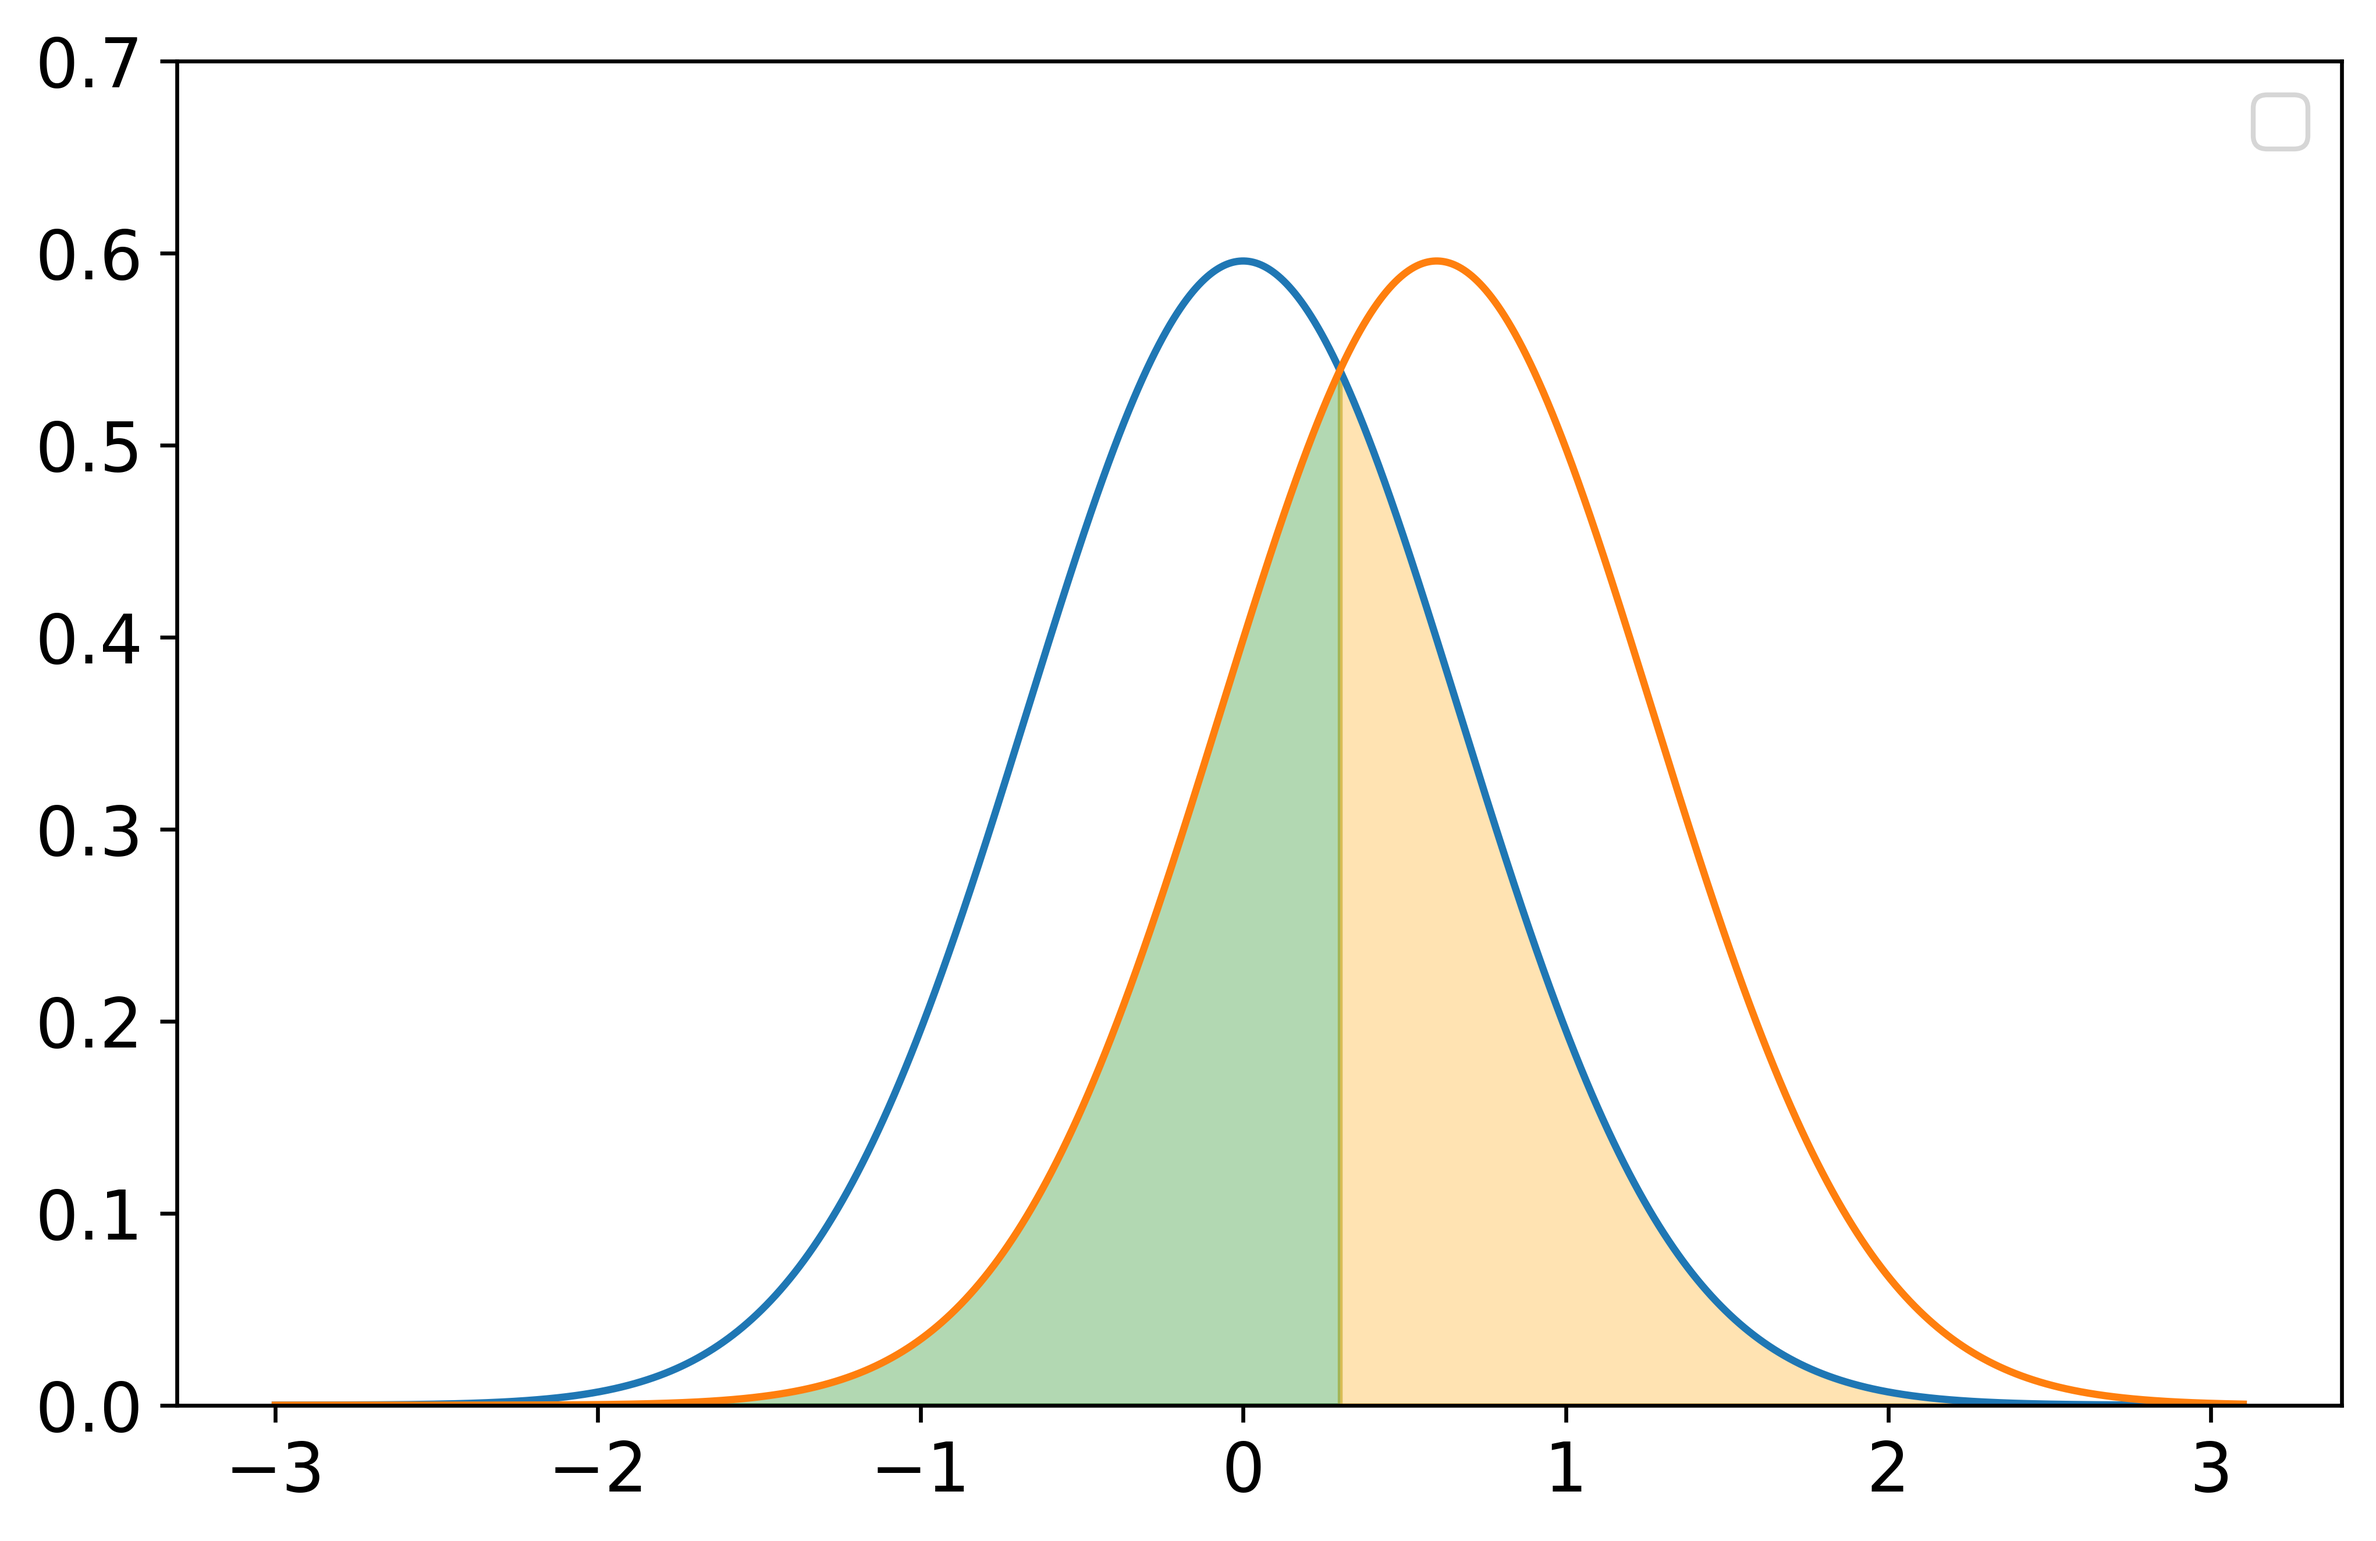
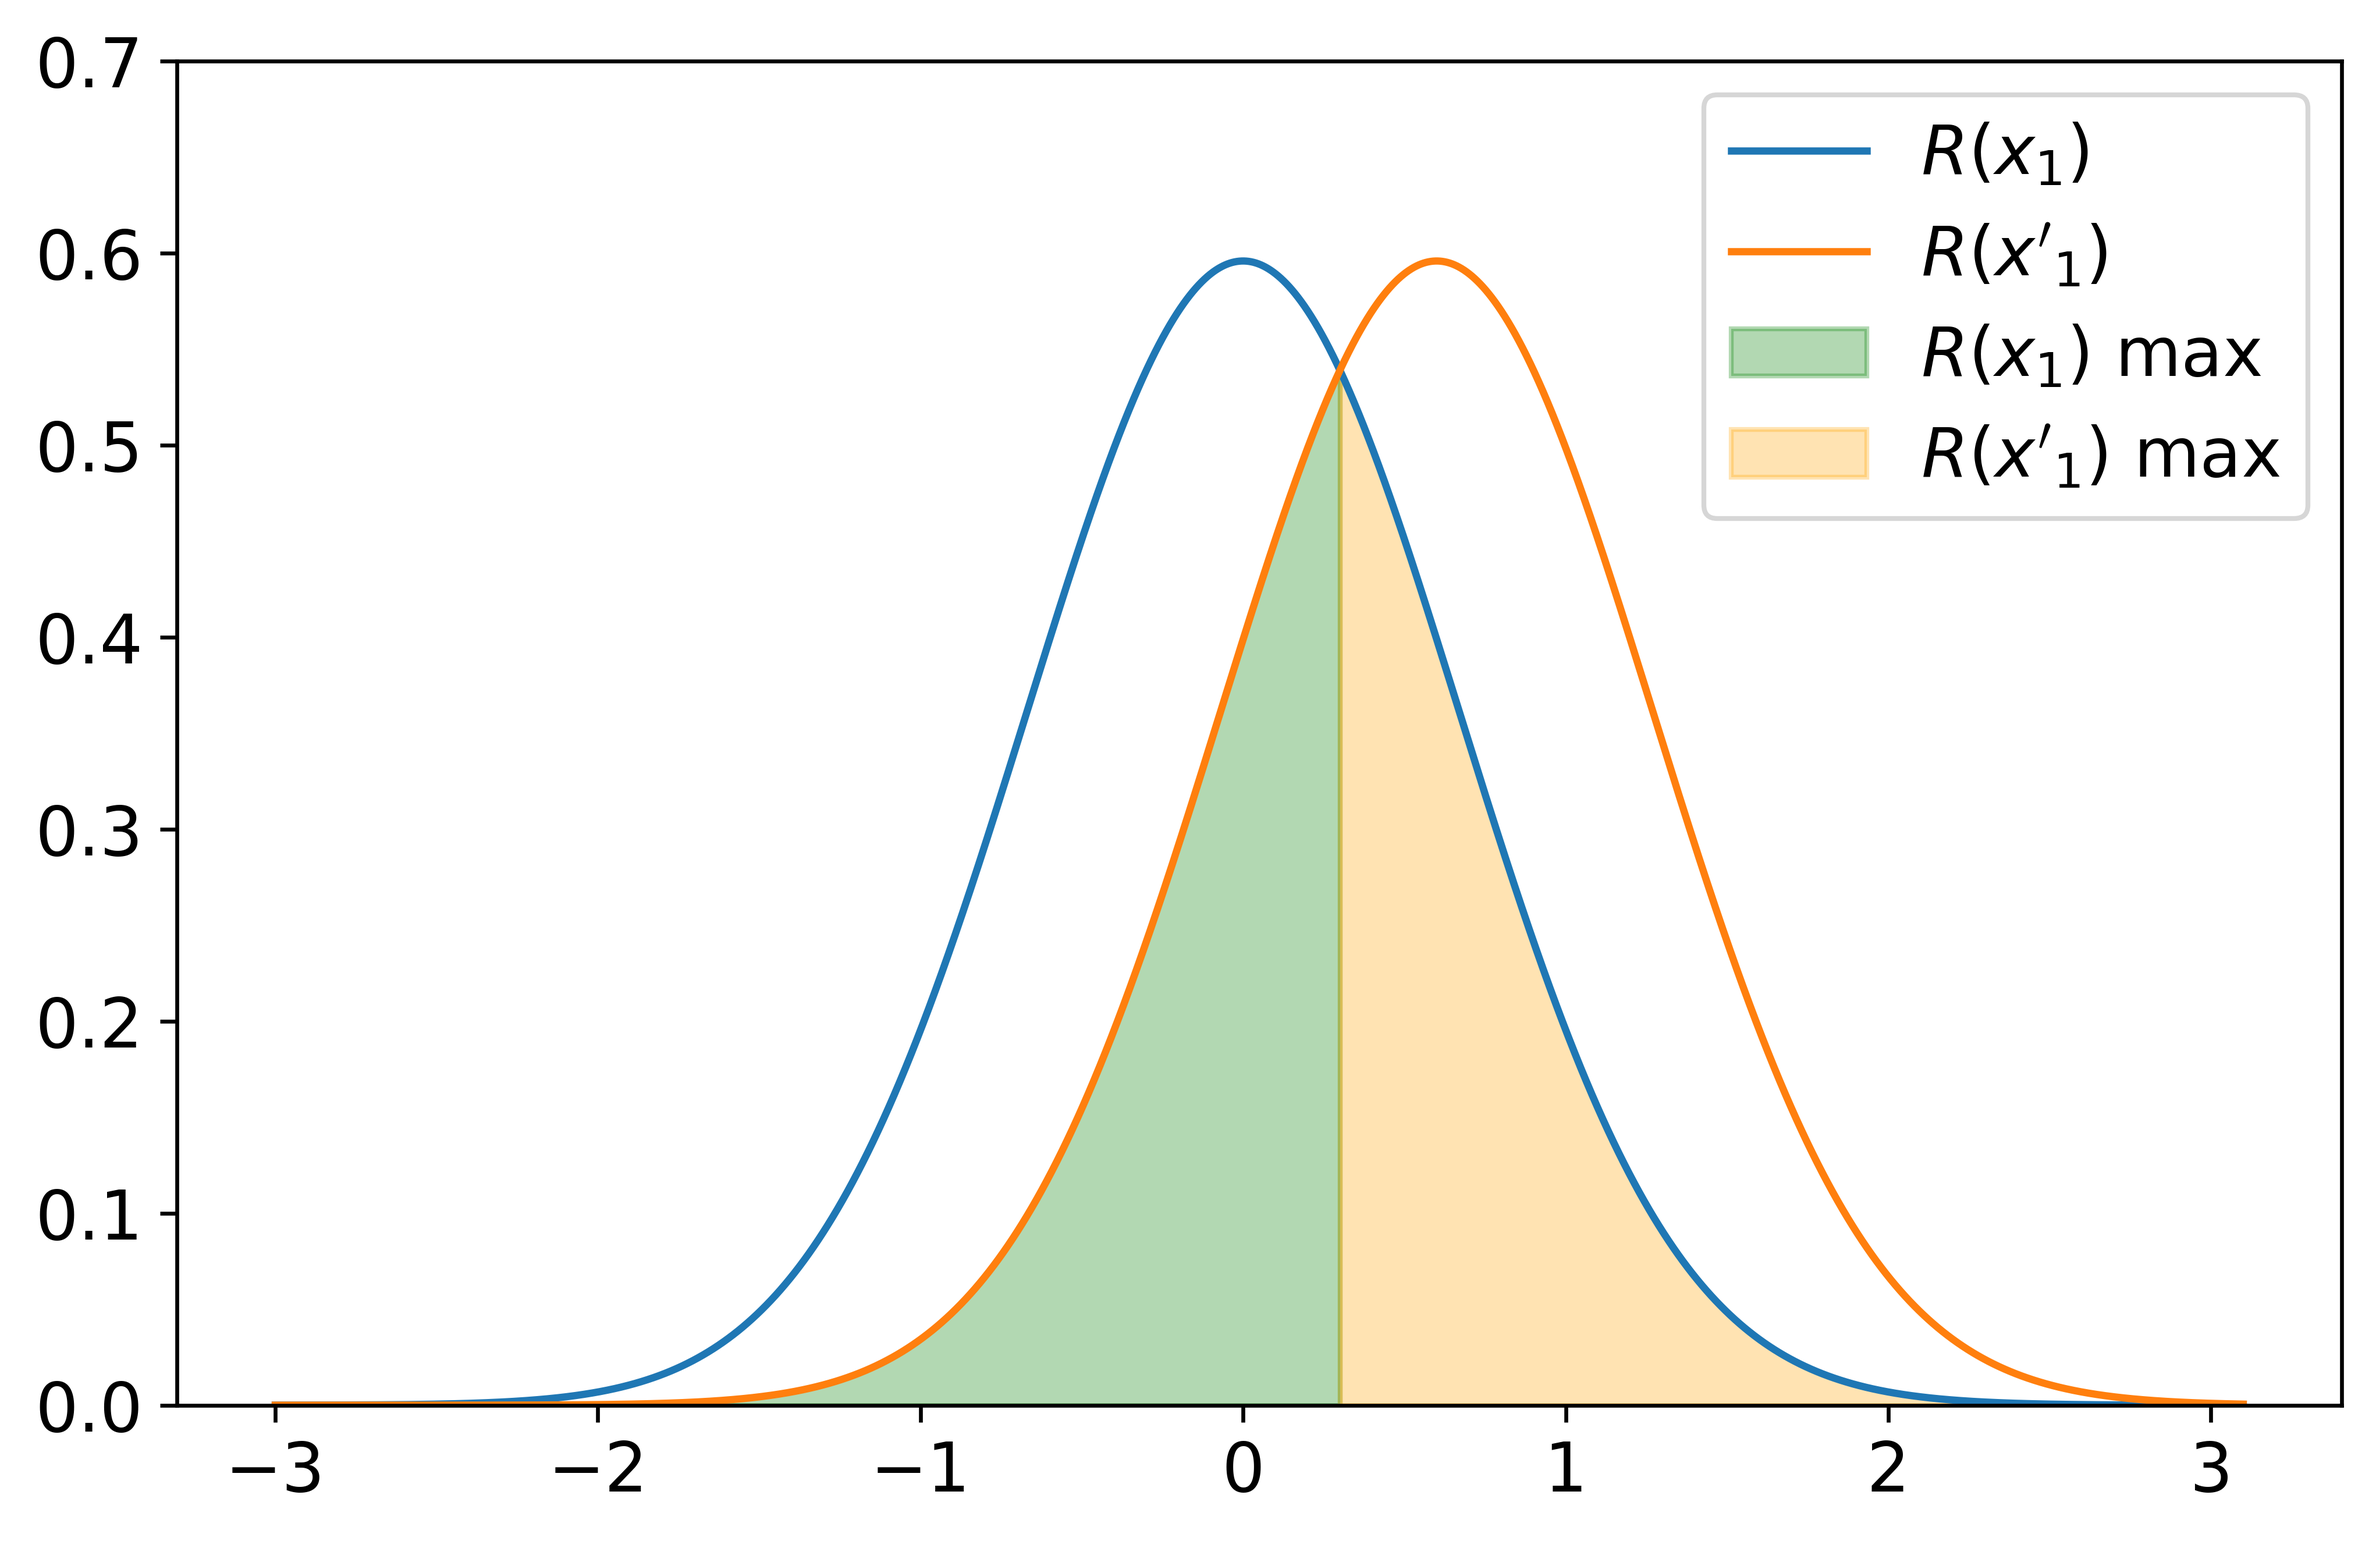
dist

diff --git a/dist.py b/dist.py
@@ -46,6 +46,9 @@ def compute_pij(ei, di, ej, dj, mech, C):
     plt.plot(x,stats.norm.pdf(x,loc=mu_j, scale = sigma_1), label='$R(x_1^0)$')
     plt.plot(x,stats.norm.pdf(x,loc=mu_i, scale = sigma_2), label='$R(x_1^1)$')
     plt.plot(x,stats.norm.pdf(x,loc=mu_j+C/4, scale = sigma_3), label='$R(x_i)$')
+    # plt.plot(x,stats.norm.pdf(x,loc=mu_j, scale = sigma_1), label='$R(x_1)$')
+    # plt.plot(x,stats.norm.pdf(x,loc=mu_i, scale = sigma_2), label='$R(x\'_1)$')
+    # plt.plot(x,stats.norm.pdf(x,loc=mu_j+C/4, scale = sigma_3), label='$R(x_i)$')
     xl = [(mu_i+mu_j)/2]*300
     y = np.linspace(0,0.6,300)
     plt.plot(xl,y,linewidth=0.6, linestyle='-.', color='grey')
@@ -98,9 +101,11 @@ def compute_pij(ei, di, ej, dj, mech, C):
     xp = x[x1[0]: x1[-1]]
     print(x1[-1], x1[0])
     plt.fill_between(xp, stats.norm.pdf(xp, loc=mu_j+C/4, scale = sigma_3), xp*0, color='g', alpha=0.3, label="$R(x_1^0)$ max")
+    # plt.fill_between(xp, stats.norm.pdf(xp, loc=mu_j+C/4, scale = sigma_3), xp*0, color='g', alpha=0.3, label="$R(x_1)$ max")
     xp = x[x2[0]: x2[-1]]
     print(x2[-1], x2[0])
     plt.fill_between(xp, stats.norm.pdf(xp, loc=mu_j+C/4, scale = sigma_3), xp*0, color='orange', alpha=0.3, label="$R(x_1^1)$ max")
+    # plt.fill_between(xp, stats.norm.pdf(xp, loc=mu_j+C/4, scale = sigma_3), xp*0, color='orange', alpha=0.3, label="$R(x\'_1)$ max")
     # plt.xlabel(fontsize=14)
     # plt.ylabel(fontsize=14)
     plt.legend(fontsize=14)

diff --git a/dist2.py b/dist2.py
@@ -26,15 +26,15 @@ def compute_pij(ej, dj, mech, C):
     # plt.plot(x[1:],pmf_1)
     # plt.plot(x[1:],pmf_2)
     # plt.plot(x[1:],pmf_3)
-    plt.plot(x,stats.norm.pdf(x,loc=mu_j, scale = sigma_1))#, label='$R(x_1^0)$')
-    plt.plot(x,stats.norm.pdf(x,loc=mu_i, scale = sigma_1))#, label='$R(x_1^1)$')
+    plt.plot(x,stats.norm.pdf(x,loc=mu_j, scale = sigma_1), label='$R(x_1)$')
+    plt.plot(x,stats.norm.pdf(x,loc=mu_i, scale = sigma_1), label='$R(x\'_1)$')
     x1 = (mu_i+mu_j)/2
     y = np.linspace(0,0.6,300)
 
     xp = np.linspace(-3, x1,300)
-    plt.fill_between(xp, stats.norm.pdf(xp, loc=mu_i, scale = sigma_1), xp*0, color='g', alpha=0.3)#, label="$R(x_1^0)$ max")
+    plt.fill_between(xp, stats.norm.pdf(xp, loc=mu_i, scale = sigma_1), xp*0, color='g', alpha=0.3, label="$R(x_1)$ max")
     xp = np.linspace(x1, 3, 300)
-    plt.fill_between(xp, stats.norm.pdf(xp, loc=mu_j, scale = sigma_1), xp*0, color='orange', alpha=0.3)#, label="$R(x_1^1)$ max")
+    plt.fill_between(xp, stats.norm.pdf(xp, loc=mu_j, scale = sigma_1), xp*0, color='orange', alpha=0.3, label="$R(x\'_1)$ max")
     # plt.xlabel(fontsize=14)
     # plt.ylabel(fontsize=14)
     plt.legend(fontsize=14)
